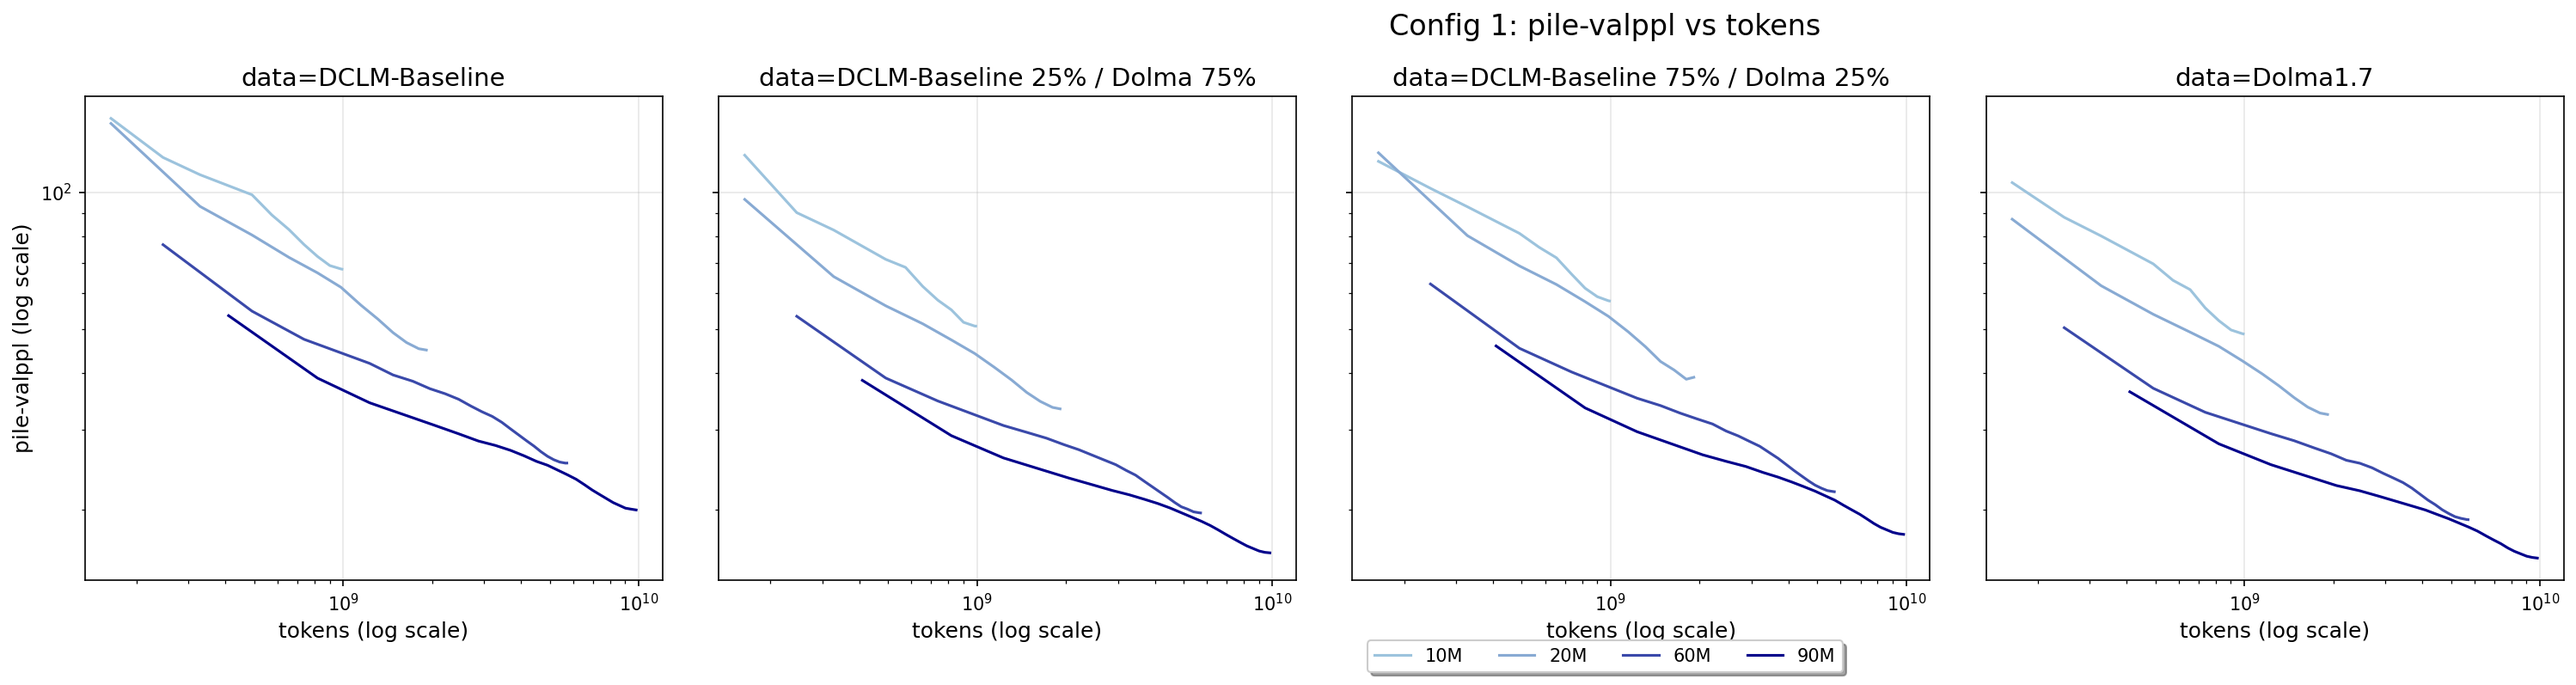
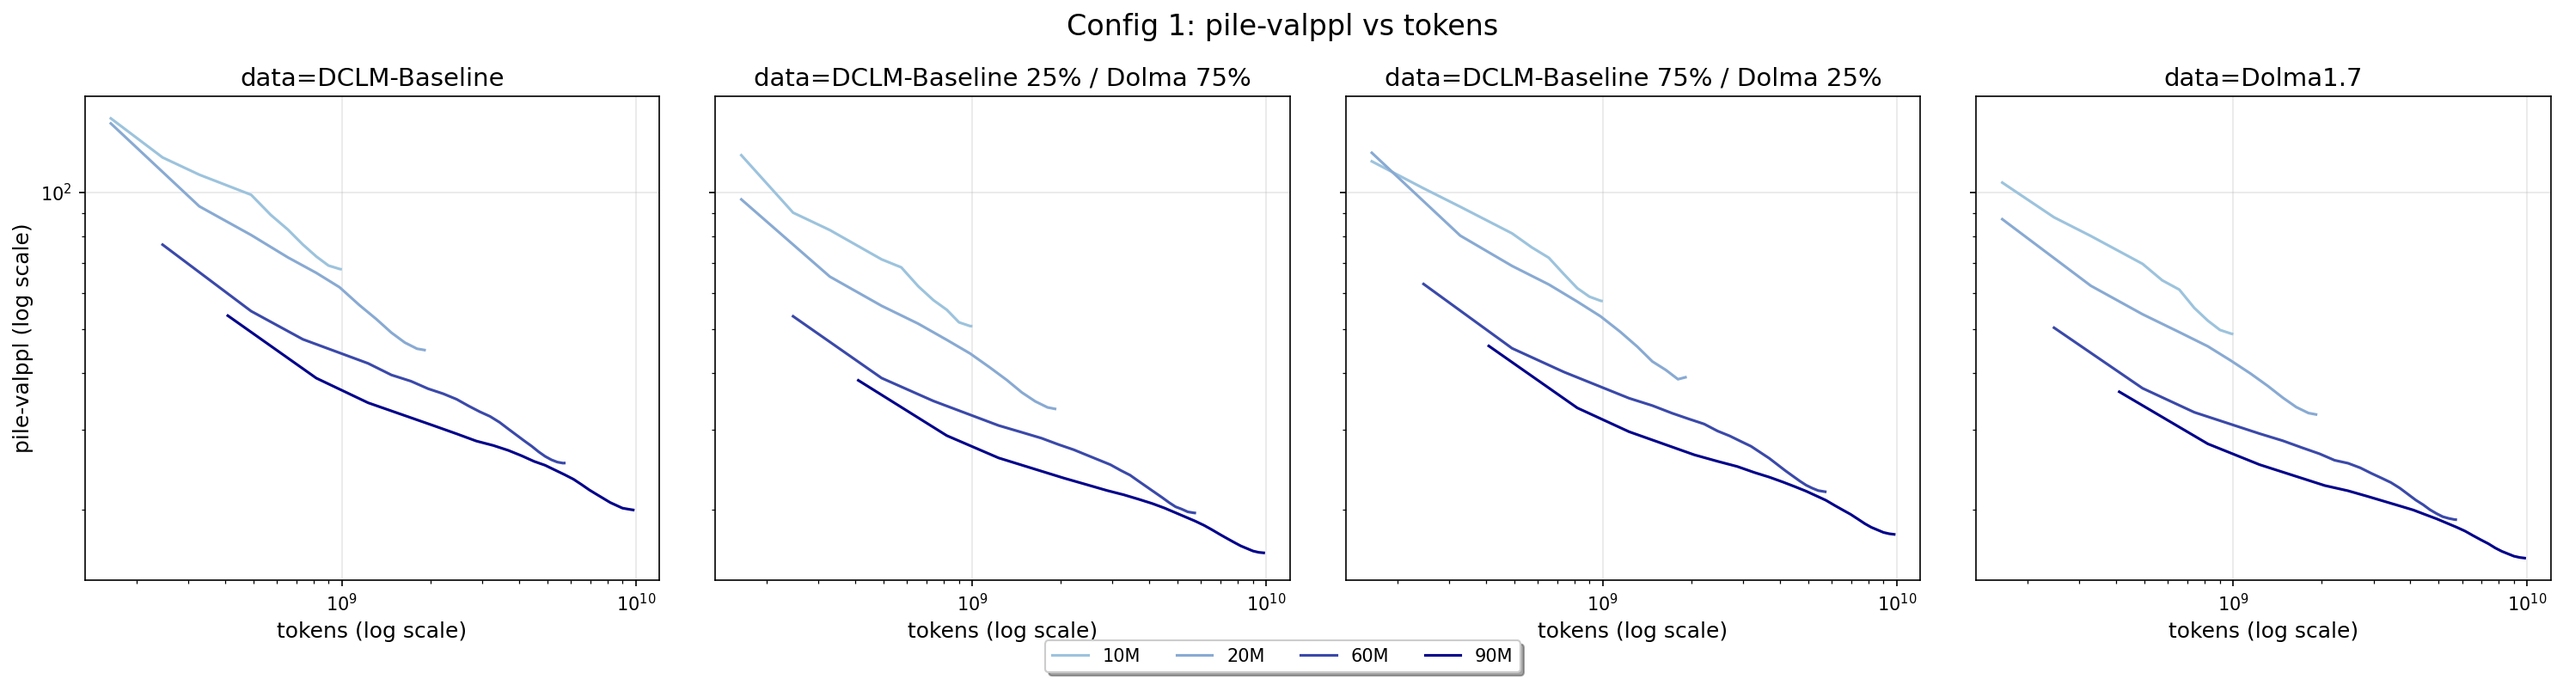
more auto set the num cols

diff --git a/scripts/test_plotting.py b/scripts/test_plotting.py
@@ -380,6 +380,8 @@ def main():
         "DCLM-Baseline 75% / Dolma 25%",
         "DCLM-Baseline",
     ]
+    
+    print(f"Using {len(test_params)} params and {len(test_data)} data recipes for dynamic ncols")
 
     # Configuration 1: params as lines, data as subplots (your main use case)
     print("\n=== Configuration 1: params as lines, data as subplots ===")
@@ -397,8 +399,8 @@ def main():
             line_col="params",
             subplot_col="data",
             title_prefix="Config 1",
-            ncols=5,  # Single row with 5 columns
-            figsize=(25, 5),  # Wider figure for single row
+            ncols=len(test_data),  # Single row matching number of data subplots
+            figsize=(len(test_data) * 5, 5),  # Wider figure for single row
             sharey=True,  # Share y-axis across subplots
             two_color_start="lightblue",  # Light blue for small models
             two_color_end="darkblue",  # Dark blue for large models
@@ -442,8 +444,8 @@ def main():
                 line_col="data",
                 subplot_col="params",
                 title_prefix="Config 2",
-                ncols=4,  # Single row with 4 columns (for 4 params)
-                figsize=(20, 5),  # Wider figure for single row
+                ncols=len(test_params),  # Single row matching number of param subplots
+                figsize=(len(test_params) * 5, 5),  # Wider figure for single row
                 sharey=True,  # Share y-axis across subplots
                 two_color_start="lightblue",  # Light blue for data recipes
                 two_color_end="darkblue",  # Dark red for data recipes
@@ -473,7 +475,7 @@ def main():
             .configure(
                 y_col="mmlu_average_correct_prob",
                 title_prefix="Config 3",
-                ncols=5,  # Single row with 5 columns
+                ncols=len(test_data),  # Single row matching number of data subplots
                 sharey=True,  # Share y-axis for this metric comparison
             )
         )
